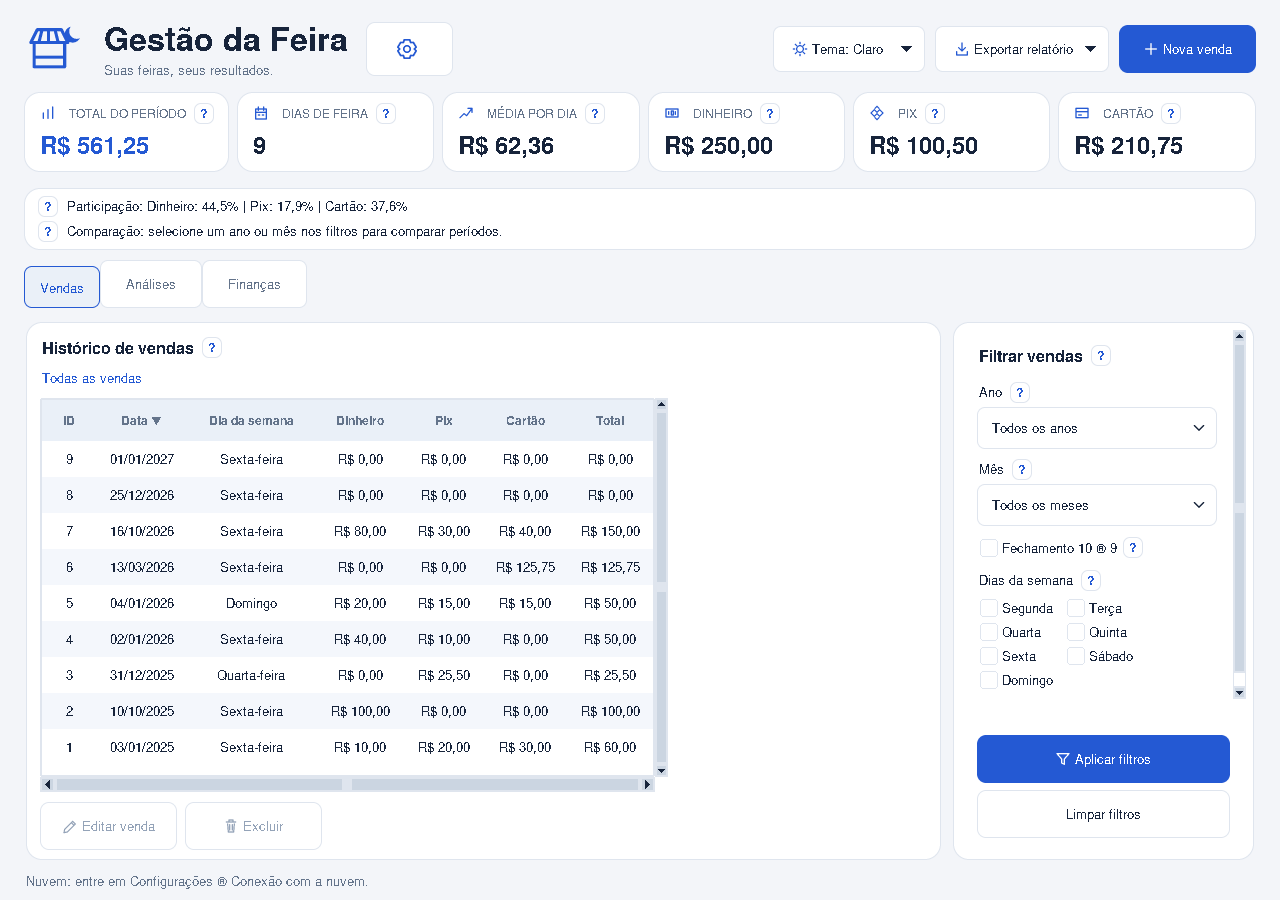
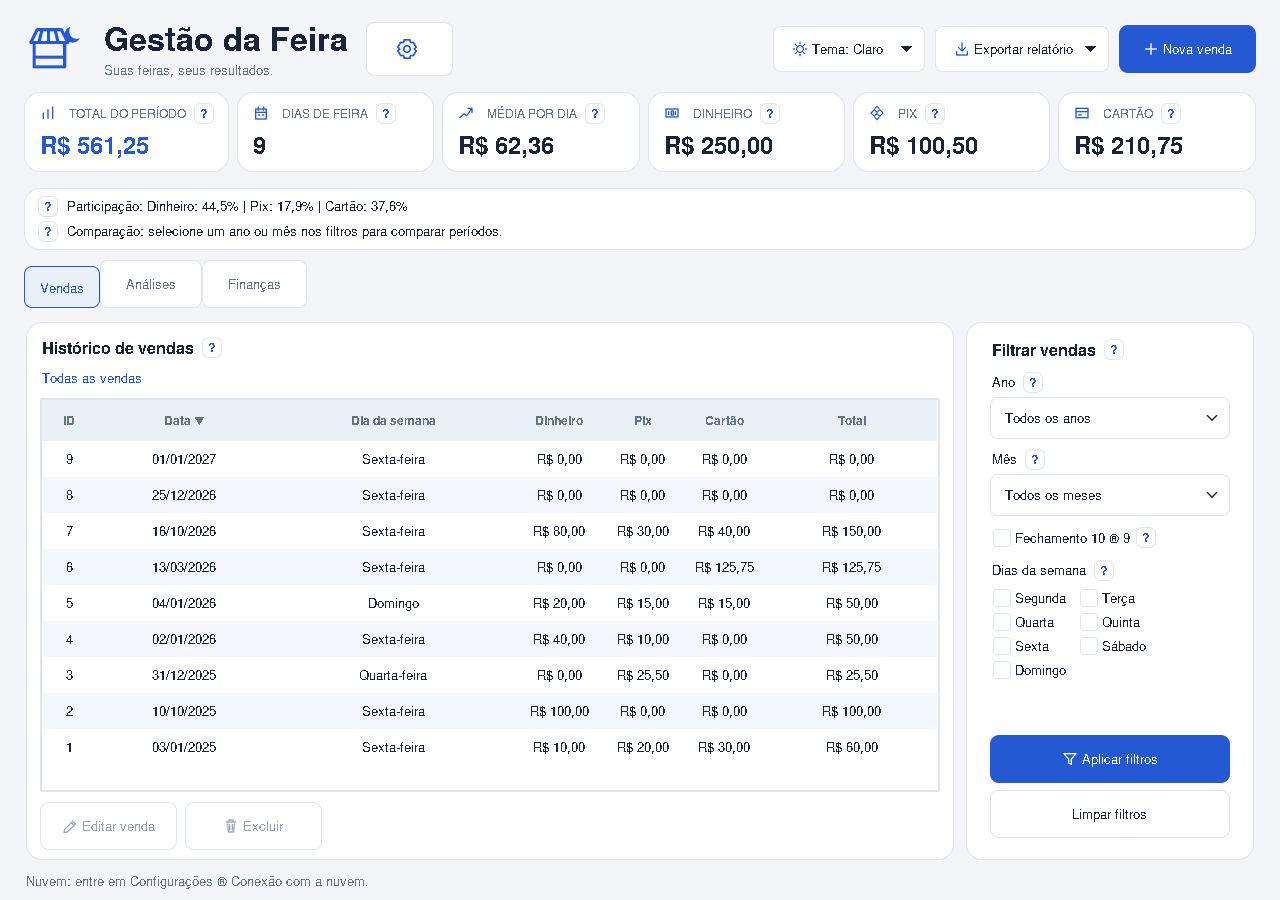
Atualiza prévias de enquadramento e temas escuros

diff --git a/previas-temas/README.md b/previas-temas/README.md
@@ -1,10 +1,8 @@
-# Prévias dos temas
+# Prévias atualizadas
 
-Capturas da interface com dados fictícios, para aprovação visual. O código em `main` não foi alterado.
+Interface real com dados fictícios. Apenas imagens nesta branch; o código em main não foi alterado.
 
-## Comparação
-
-![Quatro temas](comparacao.png)
+A tabela agora ocupa a área do histórico. Barras de rolagem aparecem apenas quando há conteúdo fora da área visível, com trilhos discretos e sem setas. Areia agora é escuro; Aurora é a nova opção violeta.
 
 ## Noite
 
@@ -18,6 +16,11 @@ Capturas da interface com dados fictícios, para aprovação visual. O código e
 
 ![Grafite](grafite.png)
 
-## Areia
+## Areia escura
 
-![Areia](areia.png)
+![Areia escura](areia.png)
+
+## Aurora
+
+![Aurora](aurora.png)
+
